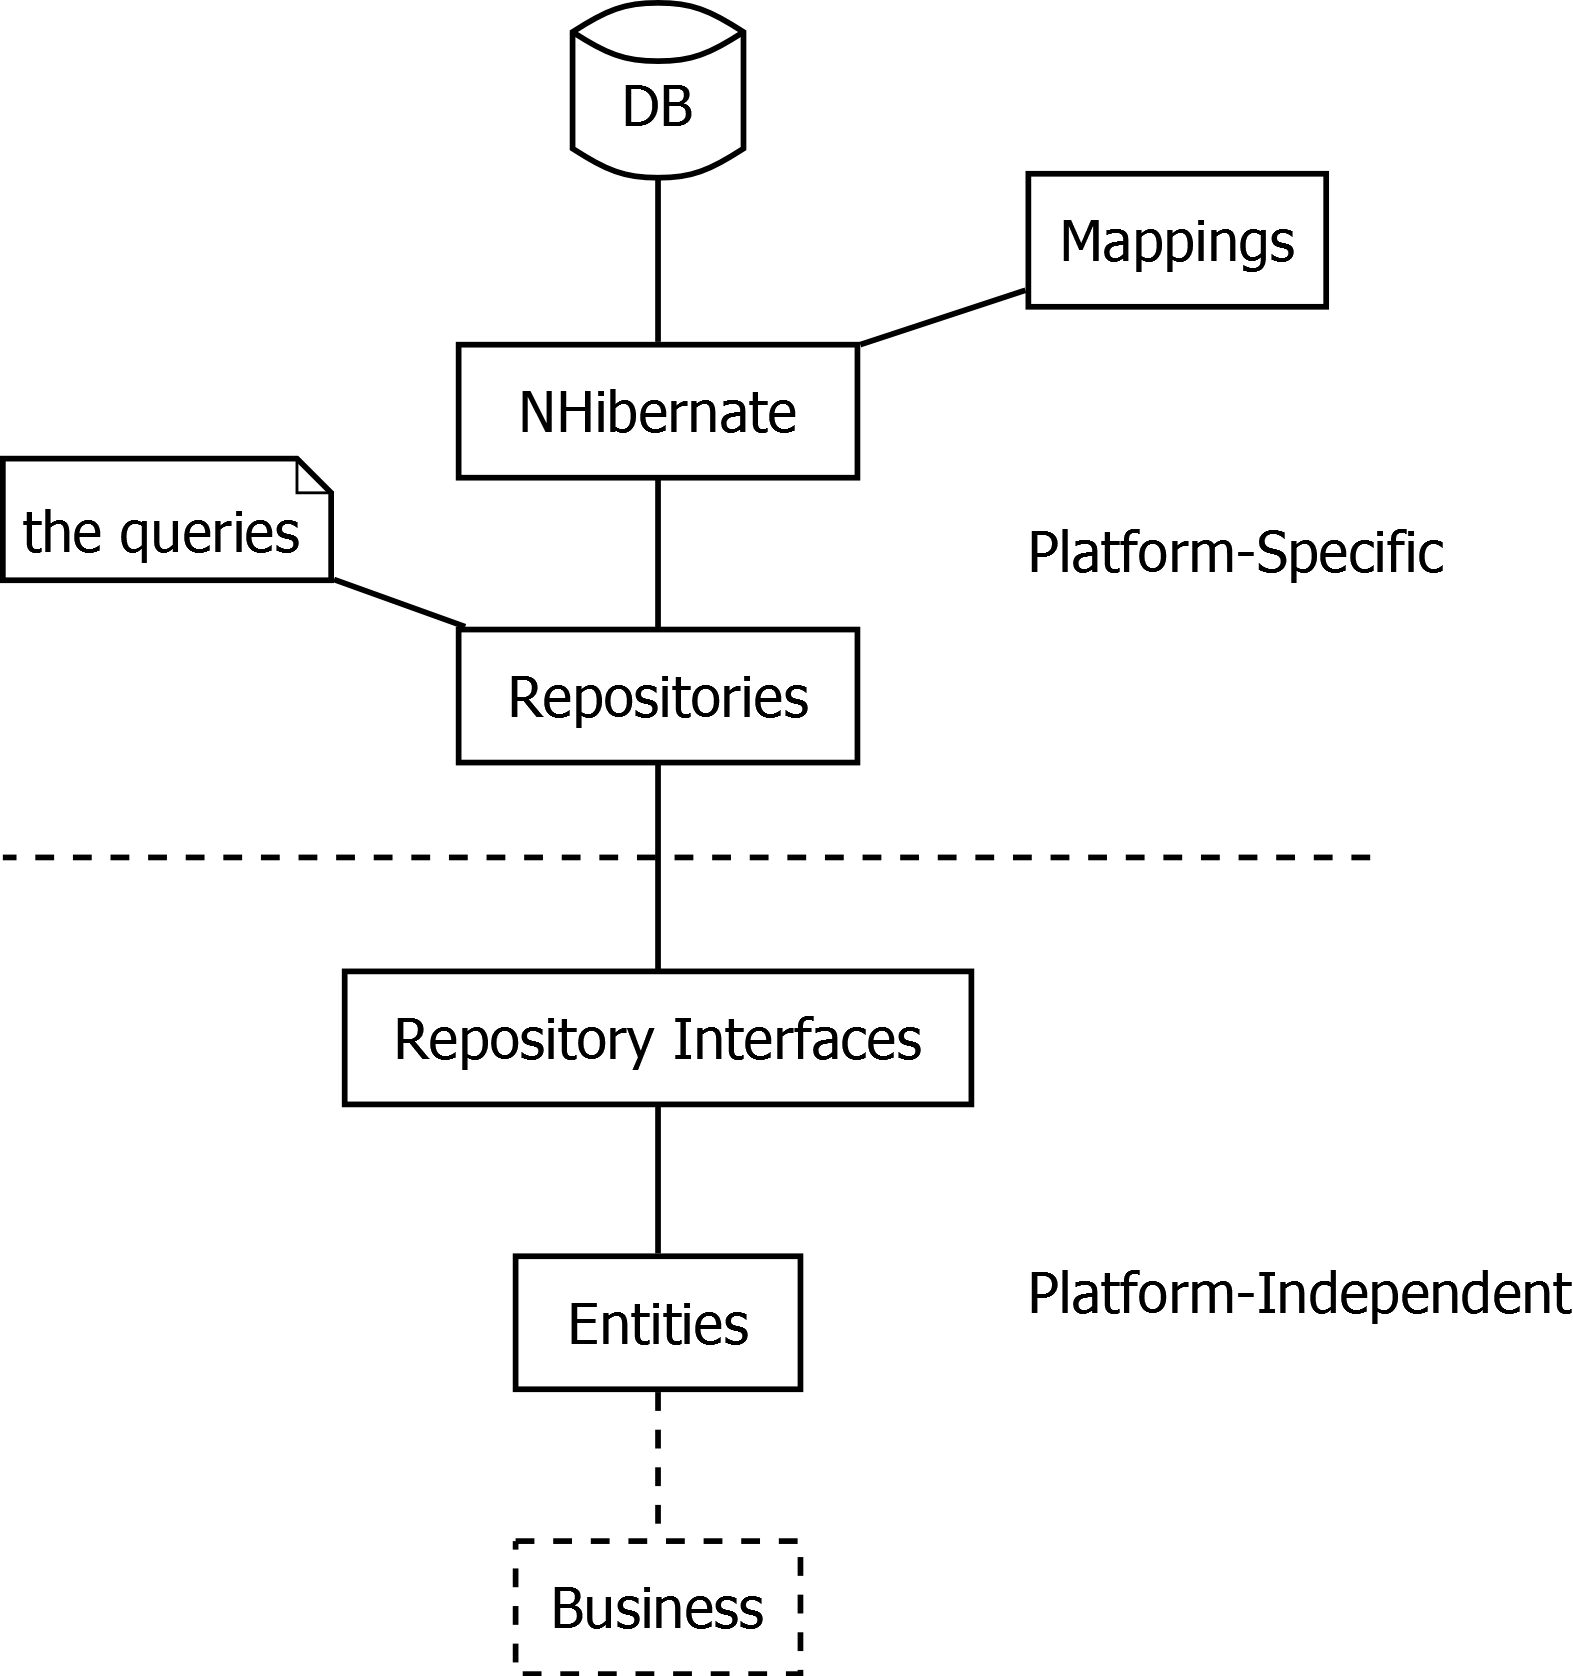
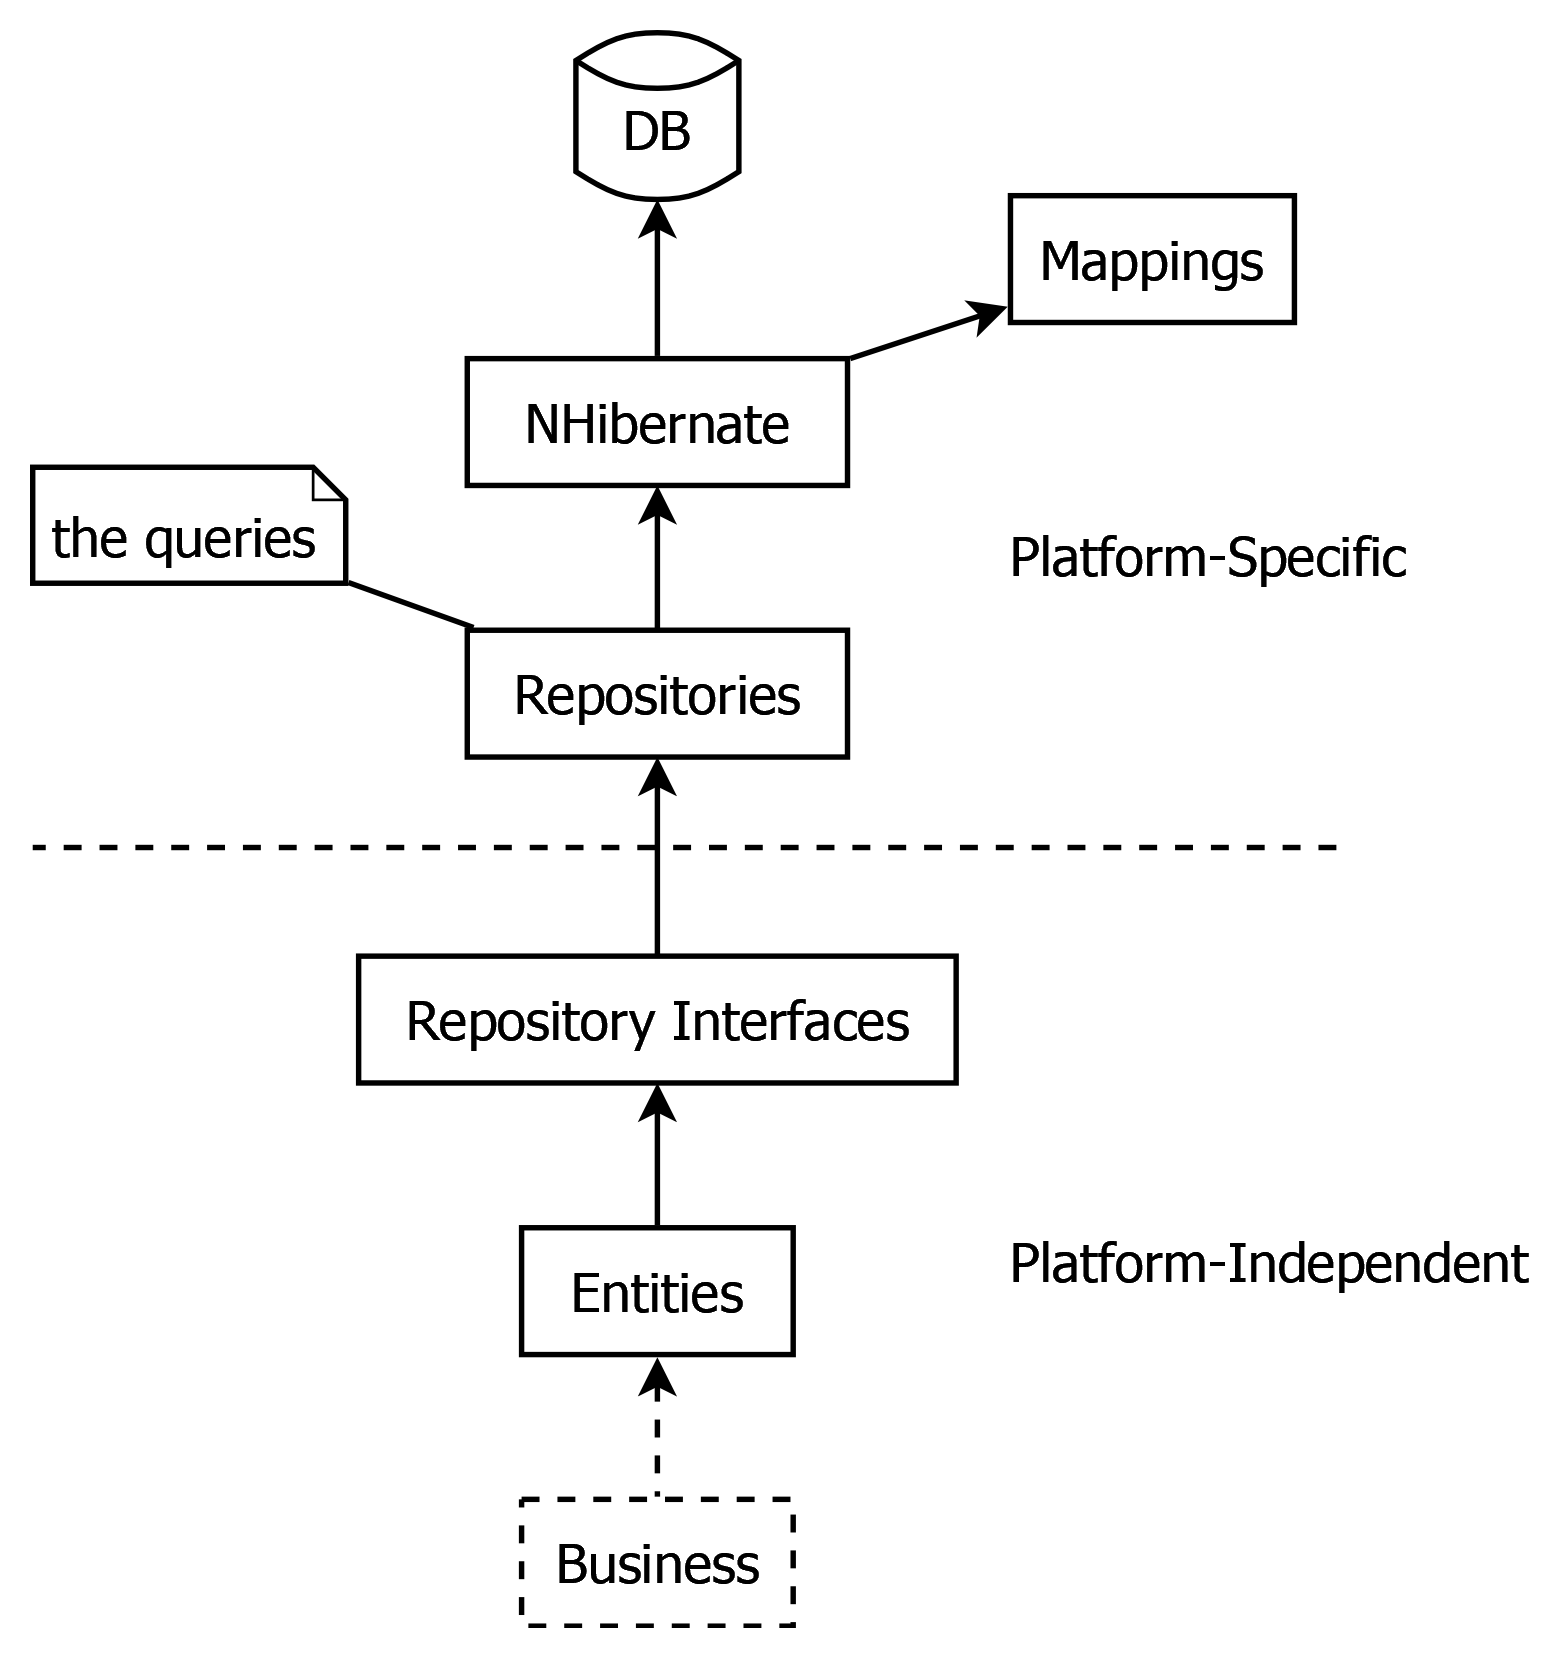
🧅 Layers: Small reformulations, adding arrows and margin to data layer diagram, and a TODO to the data layer section.

diff --git a/layers.md b/layers.md
@@ -30,7 +30,7 @@ The presentation layer builds upon the business layer with user interface techno
 
 The business layer uses the data layer to store the data.
 
-Sometimes the presentation layer might use the data layer directly, where the business layer would not really add any functionality.
+Sometimes the presentation layer uses the data layer directly, when the business layer would not really add any functionality.
 
 The data layer may be programmed with mostly fixed patterns in this architecture. The presentation layer is mostly fixed patterns too. The business layer can have patterns as well, but it gets a little more creative. If anything special needs to happen, it might be put in the business layer. It is where the magic happens, so to speak.
 
@@ -38,9 +38,10 @@ The data layer may be programmed with mostly fixed patterns in this architecture
 Data Layer
 ----------
 
+`[ TODO: More clarifying sentences. ]`  
 `[ TODO: Links to Patterns sections. ]`
 
-A data layer might be built up of the following sub-layers:
+A data layer can be built up of the following sub-layers:
 
 <img src="images/data-layer.png" width="431" />
 
